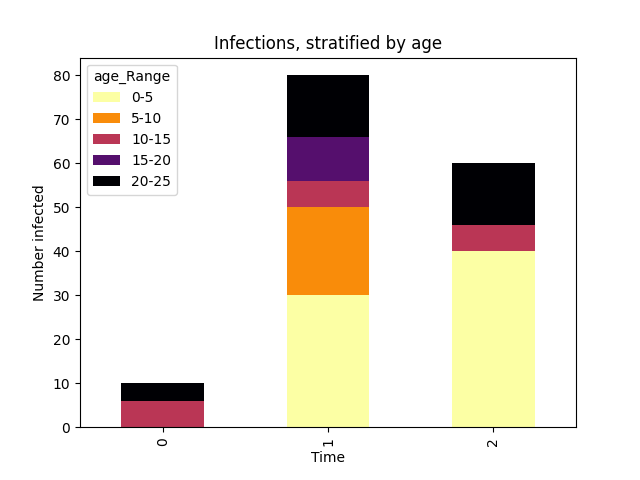
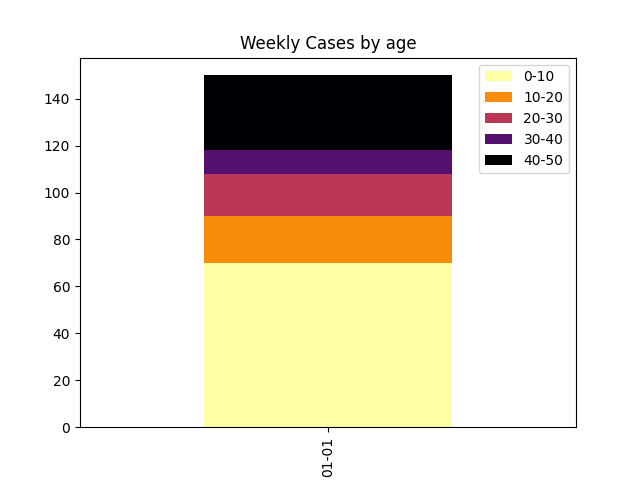
weekly sums in barplot

diff --git a/python_examples/age_stratified_example/age_stratified_plot.py b/python_examples/age_stratified_example/age_stratified_plot.py
@@ -2,7 +2,10 @@
 # Reads a csv of age stratified data and plots as a bar chart
 
 import pandas as pd
+import numpy as np
+import datetime as dt
 import matplotlib.pyplot as plt
+import matplotlib.dates as mdates
 import os
 
 # csv input files should have the column headers:
@@ -15,14 +18,19 @@ class Plotter():
     including the capability to make an age-statified
     bar chart.
     """
-    def __init__(self, filepath: str, age_list: list = None):
+    def __init__(self, filepath: str, start_date = None, sum_weekly = True,
+                 age_list: list = None):
         """Initialise the plotter with a filepath and read
-        data from the csv
+        data from the csv.
 
         Parameters
         ----------
         filepath : str
             Filepath to the .csv containing output data
+        start_date : str
+            Starting date for the simulation, "year-month-day"
+        sum_weekly : bool
+            Flag to plot either each timepoint, or the 7 day sum 
         age_list : list
             List of the explicit age ranges saved in the csv
         """
@@ -30,6 +38,8 @@ class Plotter():
             raise TypeError("input file" + filepath + "must be .csv")
         self.data = pd.read_csv(filepath)
         self.age_list = age_list
+        self.start_date = start_date
+        self.sum_weekly = sum_weekly
 
         # Identify the column containing age stratifcation as any
         # with the substring "age"
@@ -38,16 +48,49 @@ class Plotter():
         self.do_ages = (self.age_name is not None)
         if self.do_ages and (self.age_list is None):
             num = self.data[self.age_name].max()
-            self.age_list = [str(5*i)+"-"+str(5*i+5) for i in range(num+1)]
+            self.age_list = [str(10*i)+"-"+str(10*i+10) for i in range(num+1)]
 
     def sum_infectious(self) -> None:
         """Helper function which sums across all columns containing infectious
         people and appends the dataframe with a further column containing this
-        data. Assumes infection status columns are next to each other.
+        data.
         """
-        i1 = list(self.data.columns).index("InfectionStatus.InfectASympt")
-        i2 = list(self.data.columns).index("InfectionStatus.InfectICURecov")
-        self.data["Total Infectious"] = self.data.iloc[:, i1:i2+1].sum(axis=1)
+        self.data["Total Infectious"] = self.data[list(self.data \
+            .filter(regex='InfectionStatus.Infect'))].sum(axis=1)
+    
+    def dates(self, dataFrame = None, period = 'weekly') -> None:
+        """Helper function to calculate a dictionary associating each
+        timestep, with the date of a day, or week.
+
+        Parameters
+        ----------
+        dataFrame : DataFrame
+            dataFrame containing a "time" column
+        period : str
+            Either "daily" or "weekly"
+
+        Returns
+        -------
+        date_list: list
+            List of dates, corresponding to the time column
+        """
+        assert self.start_date is not None, 'Start date not set'
+        assert period in ['daily', 'weekly'], 'Period not daily or weekly'
+        if dataFrame is None: dataFrame = self.data
+        date_list = []
+        timepoints = list(dataFrame['time'])
+        start = pd.to_datetime(self.start_date).date()
+        for time in timepoints:
+            if period == 'daily':
+                date_list.append((start +  pd.DateOffset(days=time)).date())
+            else:
+                if time % 7 == 0: 
+                    week_date = (start +  pd.DateOffset(days=time)).date()
+                date_list.append(week_date)
+        date_list = [d.strftime('%m-%d') for d in date_list]
+        print(date_list)
+        return date_list
+            
 
     def barchart(self, outfile: str,
                  infection_category: str = "Total Infectious"):
@@ -66,12 +109,20 @@ class Plotter():
         if infection_category == "Total Infectious":
             self.sum_infectious()
         new_frame = self.data.loc[:, ('time', infection_category)]
+        time_col = 'time'
+        if self.start_date is not None:
+            time_col = 'dates'
+            # If a start date is given plot with dates on x axis
+            if self.sum_weekly: 
+                # 
+                new_frame['dates'] = self.dates(new_frame, 'weekly')
+            else: new_frame['dates'] = self.dates(new_frame, 'daily')
+
         if self.do_ages:
             new_frame.loc[:, self.age_name] = self.data.loc[:, self.age_name]
-            new_frame = new_frame.groupby(["time", self.age_name]) \
+            new_frame = new_frame.groupby([time_col, self.age_name]) \
                 .sum().reset_index()
-            print(new_frame)
-            new_frame = new_frame.pivot(index="time", columns=self.age_name,
+            new_frame = new_frame.pivot(index=time_col, columns=self.age_name,
                                         values=infection_category)
             if self.age_list:
                 # Renames columns to actual age ranges if given.
@@ -79,15 +130,19 @@ class Plotter():
                     new_frame = new_frame.rename(columns={i: self.age_list[i]})
             new_frame.plot.bar(stacked=True, colormap="inferno_r")
         else:
-            new_frame.plot.bar(x='time', y=infection_category)
-        plt.title("Infections, stratified by age")
+            new_frame = new_frame.groupby([time_col]) \
+                .sum().reset_index()
+            #new_frame = new_frame.pivot(index=time_col, columns=self.age_name,
+            #                            values=infection_category)
+            new_frame.plot.bar(x=time_col, y=infection_category)
+        plt.title("Weekly Cases by age")
+        plt.gca().legend().set_title('')
         plt.xlabel("Time")
-        plt.ylabel("Number infected")
         plt.savefig(outfile)
 
 
 if __name__ == '__main__':
     dirname = os.path.dirname(os.path.abspath(__file__))
-    p = Plotter(os.path.join(dirname, "output.csv"))
+    p = Plotter(os.path.join(dirname,"output.csv"), start_date = '01-01-2020')
     p.barchart(os.path.join(dirname, "age_stratify.png"))
     plt.show()
